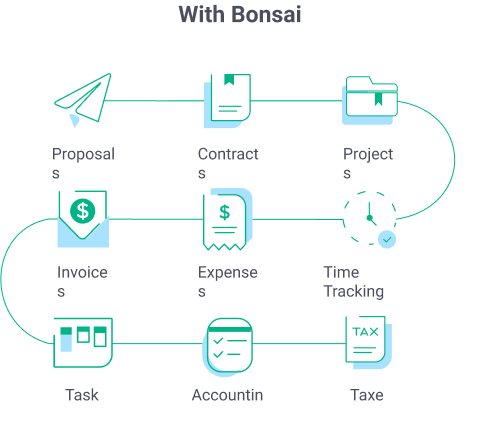
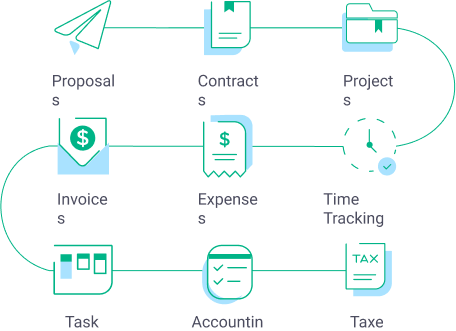
finish About component, starting Product component

diff --git a/src/components/about/flowChartContainer/FlowChartContainer.jsx b/src/components/about/flowChartContainer/FlowChartContainer.jsx
@@ -2,11 +2,13 @@ import Wrapper from './FlowChartContainerStyled'
 import FlowChart from '../flowChart/FlowChart'
 function FlowChartContainer() {
 
+	const chartImageWithoutBonsay = '/src/assets/images/about/about_without_bonsai.png'
+	const chartImageWithBonsay = '/src/assets/images/about/about_with_bonsai.png'
 
 	return (
 		<Wrapper>
-			<FlowChart />
-			<FlowChart />
+			<FlowChart chart={chartImageWithoutBonsay} title="Without Bonsai"/>
+			<FlowChart chart={chartImageWithBonsay} title="With Bonsai"/>
 		</Wrapper>
 	);
 }

diff --git a/src/components/about/flowChart/FlowChart.jsx b/src/components/about/flowChart/FlowChart.jsx
@@ -1,11 +1,11 @@
-function FlowChart() {
+import ChartTitleStyled from './FlowChartStyled'
 
-
+function FlowChart(props) {
 	return (
 		<div>
-			<h2>TITLE</h2>
+			<ChartTitleStyled>{props.title}</ChartTitleStyled>
 			<div>
-				<img src="/src/assets/images/about/about_without_bonsai.png" alt="without bonsai" />
+				<img src={props.chart} alt="chart" />
 			</div>
 		</div>
 	);

diff --git a/src/App.jsx b/src/App.jsx
@@ -2,6 +2,7 @@ import './App.css'
 import Box from '@mui/material/Box';
 import Header from './components/header/Header';
 import About from './components/about/About';
+import Products from './components/products/Products';
 
 
 function App() {
@@ -16,6 +17,7 @@ function App() {
 			
 			<Header />
 			<About />
+			<Products />
 		</Box>
 	)
 }

diff --git a/src/components/about/AboutStyled.jsx b/src/components/about/AboutStyled.jsx
@@ -3,8 +3,11 @@ import styled from 'styled-components'
 const Wrapper = styled.div`
 	width: 1065px;
 	height: 646px;
-	margin: 0 auto;
+	margin: 0 auto 188px;
 	border: 1px solid red;
+	display: flex;
+	flex-direction: column;
+	justify-content: space-between
 `
 
 export default Wrapper

diff --git a/src/components/products/ProductsStyled.jsx b/src/components/products/ProductsStyled.jsx
@@ -1,10 +1,9 @@
 import styled from 'styled-components'
 
 const Wrapper = styled.div`
-	height: 423px;
-	display: flex;
-	justify-content: space-between;
-	text-align: center;
+	width: 1065px;
+	height: 640px;
+	margin: 0 auto 207px;
+	border: 1px solid red;
 `
-
 export default Wrapper

diff --git a/src/components/about/flowChart/FlowChartStyled.jsx b/src/components/about/flowChart/FlowChartStyled.jsx
@@ -1,1 +1,12 @@
 import styled from 'styled-components'
+
+const ChartTitleStyled = styled.h2`
+	color: #4C4D5F;
+	text-align: center;
+	font-family: Roboto;
+	font-size: 23px;
+	font-style: normal;
+	font-weight: 700;
+`
+
+export default ChartTitleStyled

diff --git a/src/components/products/Products.jsx b/src/components/products/Products.jsx
@@ -1,0 +1,11 @@
+import Wrapper from './ProductsStyled'
+
+function Products() {
+	return (
+		<Wrapper>
+			
+		</Wrapper>
+	);
+}
+
+export default Products;
